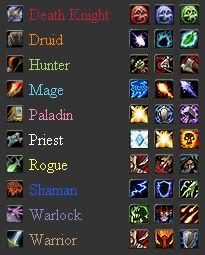
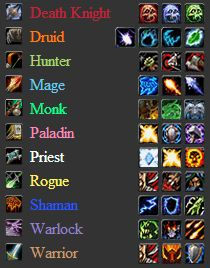
Updated for Mists

diff --git a/demo/jquery.jatt.min.js b/demo/jquery.jatt.min.js
@@ -1,23 +1,10 @@
-/*
- * Jatt - just another tooltip
+/*!
+ * Jatt - just another tooltip v2.8.6 min
+ * http://github.com/Mottie/Jatt
  * by Rob Garrison (aka Mottie)
  *
  * based on tooltip by Alen Grakalic (http://cssglobe.com/post/1695/easiest-tooltip-and-image-preview-using-jquery)
  * tooltip modification by Rob G, aka Mottie (http://wowmotty.blogspot.com/)
  *
- * v2.2  10/3/2010 Added support for old tooltip script (css contained in rel attribute)
- * v2.1  8/22/2010 Converted to a plugin, added enhancements & commented out dhtmltooltip script
- * v2.01 8/29/2009 Added Websnapr.com site screenshot option
- * v2.0  6/10/2009 Combined scripts, added support for dhtmltooltip
- * v1.0  5/8/2008  Original tooltip script by Alen Grakalic
  */
-
-function objClone(l){if(null===l||"object"!=typeof l)return l;var a=l.constructor(),d;for(d in l)if(l.hasOwnProperty(d))a[d]=l[d];return a}
-(function($){$.jatt=function(l){var a,d=$.extend({},$.jatt.defaultOptions,l);$.jatt.ttrelocate=function(i,e){var c=$(e).outerWidth(),b=$(e).outerHeight(),g={e:[a.xOffset,-b/2,c+a.xOffset,b/2],se:[a.xOffset,a.yOffset,c+a.xOffset,b+a.yOffset],s:[-c/2,a.yOffset,c/2,b+a.yOffset],sw:[-c-a.xOffset,a.yOffset,-a.xOffset,b+a.yOffset],w:[-c-a.xOffset,-b/2,-a.xOffset,b/2],nw:[-c-a.xOffset,-b-a.yOffset,-a.xOffset,-a.yOffset],n:[-c/2,-b-a.yOffset,c/2,-a.yOffset],ne:[a.xOffset,-b-a.yOffset,c+a.xOffset,-a.yOffset]}[a.direction],
-k=$(window).scrollTop(),m=$(window).scrollLeft(),f=i.pageX,j=i.pageY;if(!a.followMouse){j=$(i.target);f=j.outerWidth();var h=j.outerHeight();h={e:[f,h/2],se:[f,h],s:[f/2,h],sw:[0,h],w:[0,h/2],nw:[0,0],n:[f/2,0],ne:[f,0]};f=j.offset().left+h[a.direction][0];j=j.offset().top+h[a.direction][1]}h=f+g[0];var n=j+g[1];if(f+g[2]>m+$(window).width()-a.xOffset)h=$(window).width()-c-a.xOffset;if(j+g[3]>k+$(window).height()-a.yOffset)n=j-b-a.yOffset;if(h<m+a.xOffset)h=m+a.xOffset;if(n<k+a.yOffset)n=j+a.yOffset;
-if(f>h&&f<h+c&&j>n&&j<n+b)n+=n-b/2-a.yOffset<k+a.yOffset?b/2+a.yOffset:-b/2-a.yOffset;$(e).css({left:h+"px",top:n+"px"})};$.jatt.getMeta=function(i){a=objClone(d);var e,c=[],b=i.attr(d.metadata).match(/(\{.*\})/g)||"";if(b!==""){b=b[0].replace(/(\{|\'|\"|\})/g,"");if(b.match("direction|followMouse|content|speed|local|xOffset|yOffset|zIndex")){$.each(b.split(";"),function(g,k){e=k.split(":");if(e[0].match("direction|followMouse|content|speed|local|xOffset|yOffset|zIndex")){var m=$.trim(e[0]),f=$.trim(e[1]);
-a[m]=f=="true"||f=="false"?f=="true"?true:false:isNaN(f)?f:parseFloat(f)}else c.push(k)});b=c.join(";")}}e=i.attr("rel")||"";if(e!==""&&!/^[#|\.]|[\/]/.test(e)){e=e.split(",");b+=";width:"+e[0]+"px;";if(typeof e[1]!="undefined")b+="background:"+e[1]}return[a,b]};(function(){var i=d.live?"live":"bind";$(d.tooltip)[i](d.activate,function(e){var c=$(this),b=d.metadata.toString()=="false"?[d,""]:$.jatt.getMeta(c);a=b[0];var g=c.attr(a.content)===""?c.data("tooltip")||"":c.attr(a.content)||"",k=c.attr("rel")||
-"",m=c.attr("href")||"";c.data("tooltip",g);c.attr("title","");if(g==="")if(k!=="")g=$(k).html()||"No tooltip found";else if(m!==""){g="Loading...";var f=$("<div />");f.load(m,function(){$("#"+d.tooltipId).html(f.html())})}b='<div id="'+d.tooltipId+'" style="position:absolute;z-index:'+a.zIndex+";"+b[1]+'">'+g+"</div>";a.local?c.before(b):$("body").append(b);$.jatt.ttrelocate(e,"#"+d.tooltipId);$("#"+d.tooltipId).fadeIn(a.speed)})[i](d.deactivate,function(){$("#"+d.tooltipId).remove()})[i]("mousemove",
-function(e){a.followMouse&&$.jatt.ttrelocate(e,"#"+d.tooltipId)});$(d.preview+","+d.screenshot)[i](d.activate,function(e){var c=$(this),b=d.metadata.toString()=="false"?[d,""]:$.jatt.getMeta(c);a=b[0];var g=c.attr(a.content)===""?c.data("tooltip")||"":c.attr(a.content)||"";c.data("tooltip",g);a.content=="title"&&c.attr(a.content,"");b='<div id="'+d.previewId+'" style="position:absolute;z-index:'+a.zIndex+";"+b[1]+'"><img src="';g=g!==""?"<br/>"+g:"";var k=c.is(d.screenshot)&&this.rel=="#"?"http://images.websnapr.com/?url="+
-this.href:this.rel;b+=c.is(d.preview)?this.href+'" alt="Image preview" />':k+'" alt="URL preview: '+this.href+'" />';b+=g+"</div>";a.local?c.before(b):$("body").append(b);$("#"+d.previewId).data("options",a);$.jatt.ttrelocate(e,"#"+d.previewId);$("#"+d.previewId).fadeIn(a.speed)})[i](d.deactivate,function(){$("#"+d.previewId).remove()})[i]("mousemove",function(e){a.followMouse&&$.jatt.ttrelocate(e,"#"+d.previewId)})})()};$.jatt.defaultOptions={direction:"n",followMouse:true,content:"title",speed:300,
-local:false,xOffset:20,yOffset:20,zIndex:1E3,live:false,metadata:"class",activate:"mouseenter focusin",deactivate:"mouseleave focusout",tooltip:".tooltip",screenshot:"a.screenshot",preview:"a.preview",tooltipId:"tooltip",previewId:"preview"}})(jQuery);
+;(function(a,v,t){a.jatt=function(h){var g,q,r=[],u=a("body"),i=a(t),o=a(v),b=a.extend({},a.jatt.defaultOptions,h);a.jatt.ttrelocate=function(f,e){var j=a("#"+e),d=j.outerWidth(),m=j.outerHeight(),c=j.data("options")||b,g={e:[c.xOffset,-m/2,d+c.xOffset,m/2],se:[c.xOffset,c.yOffset,d+c.xOffset,m+c.yOffset],s:[-d/2,c.yOffset,d/2,m+c.yOffset],sw:[-d-c.xOffset,c.yOffset,-c.xOffset,m+c.yOffset],w:[-d-c.xOffset,-m/2,-c.xOffset,m/2],nw:[-d-c.xOffset,-m-c.yOffset,-c.xOffset,-c.yOffset],n:[-d/2,-m-c.yOffset, d/2,-c.yOffset],ne:[c.xOffset,-m-c.yOffset,d+c.xOffset,-c.yOffset]}[c.direction],p=o.scrollTop(),k=o.scrollLeft(),n=a(f.target),i=f.pageX||n.position().left+n.width()/2,l=f.pageY||n.position().top+n.height()/2;c.followMouse||(i=n.outerWidth(),l=n.outerHeight(),l={e:[i,l/2],se:[i,l],s:[i/2,l],sw:[0,l],w:[0,l/2],nw:[0,0],n:[i/2,0],ne:[i,0]},i=n.offset().left+l[c.direction][0],l=n.offset().top+l[c.direction][1]);var n=i+g[0],h=l+g[1];i+g[2]>k+o.width()-c.xOffset&&(n=o.width()-d-c.xOffset);l+g[3]>p+o.height()- c.yOffset&&(h=l-m-c.yOffset);n<k+c.xOffset&&(n=k+c.xOffset);h<p+c.yOffset&&(h=l+c.yOffset);i>n&&(i<n+d&&l>h&&l<h+m)&&(h+=h-m/2-c.yOffset<p+c.yOffset?m/2+c.yOffset:-m/2-c.yOffset);j.css({left:n+"px",top:h+"px"})};a.jatt.getMeta=function(f){g=a.extend({},b);var e,j=[],d=f.attr(b.metadata)||"",d=d.match(/(\{.*\})/g)?d.match(/(\{.*\})/g)[0]:f.attr(b.metadata)||"",d=d.match("width|background|color|border|direction|followMouse|content|speed|local|xOffset|yOffset|zIndex")?d:f.attr("data-jatt")||"";""!== d&&(d=d.replace(/(\{|\'|\"|\})/g,""),d.match("direction|followMouse|content|speed|local|xOffset|yOffset|zIndex")&&(a.each(d.split(";"),function(b,c){e=c.split(":");if(e[0].match("direction|followMouse|content|speed|local|xOffset|yOffset|zIndex")){var d=a.trim(e[0]),f=a.trim(e[1]);g[d]="true"==f||"false"==f?"true"==f?!0:!1:isNaN(f)?f:parseFloat(f)}else j.push(c)}),d=j.join(";")));return[g,d]};a.jatt.removeTooltips=function(){var f=a("#"+b.previewId+", #"+b.tooltipId);f.length&&(f.remove(),i.trigger("hidden.jatt", a.data(i,"jatt")));for(;0<a("#"+b.previewId+", #"+b.tooltipId).length;)a("#"+b.previewId+", #"+b.tooltipId).remove()};a.jatt.preloadContent=function(f){if(0!==f.length){var e,j,d,g,c,i=[],h=a(b.tooltip),k=f.length;for(c=0;c<k;c++)e=t.createElement("img"),e.src=f[c],r.push(e);h.each(function(c){j=a(this);"A"===this.tagName&&j.is(b.preloadContent)&&(g=a(this).attr("href")||"",""!==g&&!g.match(/^#/)&&(d=a('<div rel="'+c+'" />'),i.push(d),d.load(g,function(){h.eq(d.attr(b.extradata)).data("tooltip",d.html())})))})}}; var h=b.live?"live":"bind",s=[];a.each(["initialized.jatt","beforeReveal.jatt","revealed.jatt","hidden.jatt"],function(f,e){var g=e.split(".")[0];a.isFunction(b[g])&&i.bind(e,b[g])});a.data(i,"jatt","");a(b.tooltip)[h](b.activate,function(f){var e,j,d,h,c,o,p,k=a(this);e="false"===b.metadata.toString()?[b,""]:a.jatt.getMeta(k);this!==a.data(i,"jatt")[0]&&a.jatt.removeTooltips();i.trigger("initialized.jatt",k);g=e[0];j=""===k.attr(g.content)?k.data("tooltip")||"":k.attr(g.content)||"";h=k.attr(b.extradata)|| "";c=k.attr("href")||"";k.data("tooltip",j);k.attr("title","");e='<div id="'+b.tooltipId+'" style="position:absolute;z-index:'+g.zIndex+";"+e[1]+'"><span class="body"></span><span class="close" style="display:none;">x</span></div>';g.local?k.before(e):u.append(e);d=a("#"+b.tooltipId);""===j&&(""!==h?j=a(h).html()||b.notFound:""!==c&&"#"!==c&&(j=b.loading,o=a("<div />"),o.load(c,function(){p=o.html();r=b.cacheData?p:"";d.hide().find(".body").html(p);k.data("tooltip",r);a.jatt.ttrelocate(f,b.tooltipId); d.fadeIn(g.speed)})));d.data("options",g).find(".body").html(j);a.jatt.ttrelocate(f,b.tooltipId);d.find(".close")[k.is(b.sticky)?"show":"hide"]().click(function(){a.jatt.removeTooltips()});a.data(i,"jatt",k);i.trigger("beforeReveal.jatt",k);d.fadeIn(g.speed);i.trigger("revealed.jatt",k)})[h](b.deactivate,function(){a(this).is(b.sticky)||a.jatt.removeTooltips()})[h]("mousemove",function(f){a("#"+b.tooltipId).length&&g.followMouse&&a.jatt.ttrelocate(f,b.tooltipId)});q=function(f,e,j){i.trigger("initialized.jatt", e);var d,h="false"==b.metadata.toString()?[b,""]:a.jatt.getMeta(e);g=h[0];d=""===e.attr(g.content)?e.data("tooltip")||"":e.attr(g.content)||"";e.data("tooltip",d);"title"===g.content&&e.attr(g.content,"");j='<div id="'+b.previewId+'" style="position:absolute;z-index:'+g.zIndex+";"+h[1]+'"><span class="body"><img src="'+j+(""!==d?"<br/>"+d:"")+'</span><span class="close" style="display:none;">x</span></div>';g.local?e.before(j):u.append(j);j=a("#"+b.previewId);a.data(i,"jatt",e);i.trigger("beforeReveal.jatt", e);j.hide().data("options",g).fadeIn(g.speed);j.find(".close")[e.is(b.sticky)?"show":"hide"]().click(function(){a.jatt.removeTooltips()});a.jatt.ttrelocate(f,b.previewId);i.trigger("revealed.jatt",e)};a(b.preview)[h](b.activate,function(f){var e=a(this);a.jatt.removeTooltips();q(f,e,e.attr("href")+'" alt="'+b.imagePreview+'" />')}).each(function(){s.push(a(this).attr("href"))});a(b.screenshot)[h](b.activate,function(f){var e=a(this),g=("#"===e.attr(b.extradata)?b.websitePreview+e.attr("href"):e.attr(b.extradata))+ '" alt="'+b.siteScreenshot+e.attr("href")+'" />';a.jatt.removeTooltips();q(f,e,g)}).each(function(){var f=a(this);s.push("#"===f.attr(b.extradata)?b.websitePreview+f.attr("href"):f.attr(b.extradata))});a(b.preview+","+b.screenshot)[h](b.deactivate,function(){a(this).is(b.sticky)||a.jatt.removeTooltips()})[h]("mousemove",function(f){a("#"+b.previewId).length&&g.followMouse&&a.jatt.ttrelocate(f,b.previewId)});a.jatt.preloadContent(s)};a.jatt.defaultOptions={direction:"n",followMouse:!0,content:"title", speed:300,local:!1,xOffset:20,yOffset:20,zIndex:1E3,live:!1,metadata:"class",extradata:"rel",activate:"mouseenter focusin",deactivate:"mouseleave focusout",cacheData:!0,websitePreview:"http://api1.thumbalizr.com/?width=250&url=",loading:"Loading...",notFound:"No tooltip found",imagePreview:"Image preview",siteScreenshot:"URL preview: ",tooltip:".tooltip",screenshot:"a.screenshot",preview:"a.preview",preloadContent:".preload",sticky:".sticky",tooltipId:"tooltip",previewId:"preview"}})(jQuery,this, document);

diff --git a/js/wowtalents.min.js b/js/wowtalents.min.js
@@ -1,7 +1,6 @@
-/* World of Warcraft Recruit By Talent Widget Version 1.3.2
+/*! World of Warcraft Recruit By Talent Widget Version 1.3.3
  * by Rob G (Mottie) 2011
  * http://mottie.guildportal.com
  * Dual licensed under the MIT or GPL Version 2.
  */
-
-(function(c){c.wowTalents=function(j,k){var d=this,a;d.$el=c(j).addClass("recruitTalent");d.$el.data("wowTalents",d);d.init=function(){d.options=a=c.extend({},c.wowTalents.defaultOptions,k);var i,e,g,h,b,f;h=a.defaultNeed.toLowerCase();a.defaultNeed="None";if(/^l/.test(h))a.defaultNeed="Low";if(/^m/.test(h))a.defaultNeed="Medium";if(/^h/.test(h))a.defaultNeed="High";b=c('<div><p class="usebg"/><p class="none"/><p class="low"/><p class="medium"/><p class="high"/></div>').appendTo(c("body"));a.bg=b.find(".usebg").css("color"); a.cn=b.find(".none").css("color");a.cl=b.find(".low").css("color");a.cm=b.find(".medium").css("color");a.ch=b.find(".high").css("color");a.cd=b.find("."+a.defaultNeed.toLowerCase()).css("color");b.remove();b="<div>";f=c.wowTalents.talents.root;for(e=0;e<f.length;e++){h=a[f[e].name.toLowerCase().replace(/\s+/g,"")].split(",");b+='<div class="wowclass"><span class="classIcon '+f[e].icon+'"><span';b+=a.useClassColors?' style="color:'+f[e].color+'">':">";b+=f[e].name+'</span></span><span class="talentIcons">'; for(g=0;3>g;g++)i=d.getStyle(h[g]||""),b+='<span class="talentIcon '+a.tooltipClass+" "+f[e].tree[g][1]+" "+i[0].toLowerCase()+("class"===a.tooltipMetadata?" ":'" '+a.tooltipMetadata+'="')+"{width:"+a.tooltipWidth+"px;color:"+(a.colorBackground?a.bg+";background:":"")+i[1]+';}" title="'+f[e].tree[g][0]+": "+i[0]+'"></span> ';b+="</span></div>"}d.$el.html(b+"</div>")};d.getStyle=function(c){c=c.toLowerCase();return/^n/.test(c)?["None",a.cn]:/^l/.test(c)?["Low",a.cl]:/^m/.test(c)?["Medium",a.cm]:/^h/.test(c)? ["High",a.ch]:[a.defaultNeed,a.cd]};d.init()};c.wowTalents.defaultOptions={defaultNeed:"Low",colorBackground:!0,useClassColors:!0,tooltipClass:"tooltip",tooltipWidth:150,tooltipMetadata:"class",deathknight:"",druid:"",hunter:"",mage:"",paladin:"",priest:"",rogue:"",shaman:"",warlock:"",warrior:""};c.wowTalents.talents={root:[{name:"Death Knight",icon:"icon_class_deathknight",color:"#c41f3b",tree:[["Blood","icon_deathknight_blood"],["Frost","icon_deathknight_frost"],["Unholy","icon_deathknight_unholy"]]}, {name:"Druid",icon:"icon_class_druid",color:"#ff7d0a",tree:[["Balance","icon_druid_balance"],["Feral","icon_druid_feral"],["Restoration","icon_druid_restoration"]]},{name:"Hunter",icon:"icon_class_hunter",color:"#abd473",tree:[["Beast Mastery","icon_hunter_beast_mastery"],["Marksmanship","icon_hunter_marksmanship"],["Survival","icon_hunter_survival"]]},{name:"Mage",icon:"icon_class_mage",color:"#69ccf0",tree:[["Arcane","icon_mage_arcane"],["Fire","icon_mage_fire"],["Frost","icon_mage_frost"]]},{name:"Paladin", icon:"icon_class_paladin",color:"#f58cba",tree:[["Holy","icon_paladin_holy"],["Protection","icon_paladin_protection"],["Retribution","icon_paladin_retribution"]]},{name:"Priest",icon:"icon_class_priest",color:"#ffffff",tree:[["Discipline","icon_priest_discipline"],["Holy","icon_priest_holy"],["Shadow","icon_priest_shadow"]]},{name:"Rogue",icon:"icon_class_rogue",color:"#fff569",tree:[["Assassination","icon_rogue_assassination"],["Combat","icon_rogue_combat"],["Subtlety","icon_rogue_subtlety"]]},{name:"Shaman", icon:"icon_class_shaman",color:"#2459ff",tree:[["Elemental","icon_shaman_elemental"],["Enhancement","icon_shaman_enhancement"],["Restoration","icon_shaman_restoration"]]},{name:"Warlock",icon:"icon_class_warlock",color:"#9482c9",tree:[["Affliction","icon_warlock_affliction"],["Demonology","icon_warlock_demonology"],["Destruction","icon_warlock_destruction"]]},{name:"Warrior",icon:"icon_class_warrior",color:"#c79c6e",tree:[["Arms","icon_warrior_arms"],["Fury","icon_warrior_fury"],["Protection","icon_warrior_protection"]]}]}; c.fn.wowTalents=function(j){return this.each(function(){new c.wowTalents(this,j)})}})(jQuery);
+(function(c){c.wowTalents=function(j,k){var e=this,a;e.$el=c(j).addClass("recruitTalent");e.$el.data("wowTalents",e);e.init=function(){e.options=a=c.extend({},c.wowTalents.defaultOptions,k);var i,d,g,h,b,f;h=a.defaultNeed.toLowerCase();a.defaultNeed="None";/^l/.test(h)&&(a.defaultNeed="Low");/^m/.test(h)&&(a.defaultNeed="Medium");/^h/.test(h)&&(a.defaultNeed="High");b=c('<div><p class="usebg"/><p class="none"/><p class="low"/><p class="medium"/><p class="high"/></div>').appendTo(c("body"));a.bg=b.find(".usebg").css("color"); a.cn=b.find(".none").css("color");a.cl=b.find(".low").css("color");a.cm=b.find(".medium").css("color");a.ch=b.find(".high").css("color");a.cd=b.find("."+a.defaultNeed.toLowerCase()).css("color");b.remove();b="<div>";f=c.wowTalents.talents.root;for(d=0;d<f.length;d++){h=a[f[d].name.toLowerCase().replace(/\s+/g,"")].split(",");b+='<div class="wowclass"><span class="classIcon '+f[d].icon+'"><span';b+=a.useClassColors?' style="color:'+f[d].color+'">':">";b+=f[d].name+'</span></span><span class="talentIcons">'; for(g=f[d].tree.length-1;0<=g;g--)i=e.getStyle(h[g]||""),b+='<span class="talentIcon '+a.tooltipClass+" "+f[d].tree[g][1]+" "+i[0].toLowerCase()+("class"===a.tooltipMetadata?" ":'" '+a.tooltipMetadata+'="')+"{width:"+a.tooltipWidth+"px;color:"+(a.colorBackground?a.bg+";background:":"")+i[1]+';}" title="'+f[d].tree[g][0]+": "+i[0]+'"></span> ';b+="</span></div>"}e.$el.html(b+"</div>")};e.getStyle=function(c){c=c.toLowerCase();return/^n/.test(c)?["None",a.cn]:/^l/.test(c)?["Low",a.cl]:/^m/.test(c)? ["Medium",a.cm]:/^h/.test(c)?["High",a.ch]:[a.defaultNeed,a.cd]};e.init()};c.wowTalents.defaultOptions={defaultNeed:"Low",colorBackground:!0,useClassColors:!0,tooltipClass:"tooltip",tooltipWidth:150,tooltipMetadata:"class",deathknight:"",druid:"",hunter:"",mage:"",monk:"",paladin:"",priest:"",rogue:"",shaman:"",warlock:"",warrior:""};c.wowTalents.talents={root:[{name:"Death Knight",icon:"icon_class_deathknight",color:"#c41f3b",tree:[["Blood","icon_deathknight_blood"],["Frost","icon_deathknight_frost"], ["Unholy","icon_deathknight_unholy"]]},{name:"Druid",icon:"icon_class_druid",color:"#ff7d0a",tree:[["Balance","icon_druid_balance"],["Guardian","icon_druid_guardian"],["Feral","icon_druid_feral"],["Restoration","icon_druid_restoration"]]},{name:"Hunter",icon:"icon_class_hunter",color:"#abd473",tree:[["Beast Mastery","icon_hunter_beast_mastery"],["Marksmanship","icon_hunter_marksmanship"],["Survival","icon_hunter_survival"]]},{name:"Mage",icon:"icon_class_mage",color:"#69ccf0",tree:[["Arcane","icon_mage_arcane"], ["Fire","icon_mage_fire"],["Frost","icon_mage_frost"]]},{name:"Monk",icon:"icon_class_monk",color:"#00ff96",tree:[["Brewmaster","icon_monk_brewmaster"],["Mistweaver","icon_monk_mistweaver"],["Windwalker","icon_monk_windwalker"]]},{name:"Paladin",icon:"icon_class_paladin",color:"#f58cba",tree:[["Holy","icon_paladin_holy"],["Protection","icon_paladin_protection"],["Retribution","icon_paladin_retribution"]]},{name:"Priest",icon:"icon_class_priest",color:"#ffffff",tree:[["Discipline","icon_priest_discipline"], ["Holy","icon_priest_holy"],["Shadow","icon_priest_shadow"]]},{name:"Rogue",icon:"icon_class_rogue",color:"#fff569",tree:[["Assassination","icon_rogue_assassination"],["Combat","icon_rogue_combat"],["Subtlety","icon_rogue_subtlety"]]},{name:"Shaman",icon:"icon_class_shaman",color:"#2459ff",tree:[["Elemental","icon_shaman_elemental"],["Enhancement","icon_shaman_enhancement"],["Restoration","icon_shaman_restoration"]]},{name:"Warlock",icon:"icon_class_warlock",color:"#9482c9",tree:[["Affliction","icon_warlock_affliction"], ["Demonology","icon_warlock_demonology"],["Destruction","icon_warlock_destruction"]]},{name:"Warrior",icon:"icon_class_warrior",color:"#c79c6e",tree:[["Arms","icon_warrior_arms"],["Fury","icon_warrior_fury"],["Protection","icon_warrior_protection"]]}]};c.fn.wowTalents=function(j){return this.each(function(){new c.wowTalents(this,j)})}})(jQuery);

diff --git a/css/wowtalents.css b/css/wowtalents.css
@@ -32,7 +32,6 @@
 
 /* wraps all 3 talent tree icons */
 .talentIcons {
- width: 40%;
  float: right;
 }
 
@@ -40,9 +39,10 @@
 .talentIcon {
  background: url(../images/icons-wowtalents.gif) no-repeat;
  display: block;
- float: left;
+ float: right;
  width: 21px;
  height: 21px;
+ margin-left: 2px;
 }
 
 /* talent and class sprites */
@@ -50,36 +50,41 @@
 .icon_deathknight_frost { background-position: 0 -50px; }
 .icon_deathknight_unholy { background-position: 0 -100px; }
 .icon_druid_balance { background-position: 0 -150px; }
-.icon_druid_feral { background-position: 0 -200px; }
-.icon_druid_restoration { background-position: 0 -250px; }
-.icon_hunter_beast_mastery { background-position: 0 -300px; }
-.icon_hunter_marksmanship { background-position: 0 -350px; }
-.icon_hunter_survival { background-position: 0 -400px; }
-.icon_mage_arcane { background-position: 0 -450px; }
-.icon_mage_fire { background-position: 0 -500px; }
-.icon_mage_frost { background-position: 0 -550px; }
-.icon_paladin_holy { background-position: 0 -600px; }
-.icon_paladin_protection { background-position: 0 -650px; }
-.icon_paladin_retribution { background-position: 0 -700px; }
-.icon_priest_discipline { background-position: 0 -750px; }
-.icon_priest_holy { background-position: 0 -800px; }
-.icon_priest_shadow { background-position: 0 -850px; }
-.icon_rogue_assassination { background-position: 0 -900px; }
-.icon_rogue_combat { background-position: 0 -950px; }
-.icon_rogue_subtlety { background-position: 0 -1000px; }
-.icon_shaman_elemental { background-position: 0 -1050px; }
-.icon_shaman_enhancement { background-position: 0 -1100px; }
-.icon_shaman_restoration { background-position: 0 -1150px; }
-.icon_warlock_affliction { background-position: 0 -1200px; }
-.icon_warlock_demonology { background-position: 0 -1250px; }
-.icon_warlock_destruction { background-position: 0 -1300px; }
-.icon_warrior_arms { background-position: 0 -1350px; }
-.icon_warrior_fury { background-position: 0 -1400px; }
-.icon_warrior_protection { background-position: 0 -1450px; }
+.icon_druid_guardian { background-position: 0 -200px; }
+.icon_druid_feral { background-position: 0 -250px; }
+.icon_druid_restoration { background-position: 0 -300px; }
+.icon_hunter_beast_mastery { background-position: 0 -350px; }
+.icon_hunter_marksmanship { background-position: 0 -400px; }
+.icon_hunter_survival { background-position: 0 -450px; }
+.icon_mage_arcane { background-position: 0 -500px; }
+.icon_mage_fire { background-position: 0 -550px; }
+.icon_mage_frost { background-position: 0 -600px; }
+.icon_monk_brewmaster { background-position: 0 -1550px; }
+.icon_monk_mistweaver { background-position: 0 -1600px; }
+.icon_monk_windwalker { background-position: 0 -1650px; }
+.icon_paladin_holy { background-position: 0 -650px; }
+.icon_paladin_protection { background-position: 0 -700px; }
+.icon_paladin_retribution { background-position: 0 -750px; }
+.icon_priest_discipline { background-position: 0 -800px; }
+.icon_priest_holy { background-position: 0 -850px; }
+.icon_priest_shadow { background-position: 0 -900px; }
+.icon_rogue_assassination { background-position: 0 -950px; }
+.icon_rogue_combat { background-position: 0 -1000px; }
+.icon_rogue_subtlety { background-position: 0 -1050px; }
+.icon_shaman_elemental { background-position: 0 -1100px; }
+.icon_shaman_enhancement { background-position: 0 -1150px; }
+.icon_shaman_restoration { background-position: 0 -1200px; }
+.icon_warlock_affliction { background-position: 0 -1250px; }
+.icon_warlock_demonology { background-position: 0 -1300px; }
+.icon_warlock_destruction { background-position: 0 -1350px; }
+.icon_warrior_arms { background-position: 0 -1400px; }
+.icon_warrior_fury { background-position: 0 -1450px; }
+.icon_warrior_protection { background-position: 0 -1500px; }
 
 .icon_class_deathknight { background-position: 0 0; }
 .icon_class_druid { background-position: 0 -50px; }
 .icon_class_hunter { background-position: 0 -100px; }
+.icon_class_monk { background-position: 0 -500px; }
 .icon_class_mage { background-position: 0 -150px; }
 .icon_class_paladin { background-position: 0 -200px; }
 .icon_class_priest { background-position: 0 -250px; }

diff --git a/js/wowtalents.js b/js/wowtalents.js
@@ -1,10 +1,11 @@
-/* World of Warcraft Recruit By Talent Widget Version 1.3.2
- * by Rob G (Mottie) 2011
+/*! World of Warcraft Recruit By Talent Widget Version 1.3.3
+ * by Rob G (Mottie) 2012
  * http://mottie.guildportal.com
  * Dual licensed under the MIT or GPL Version 2.
  */
-
-(function($){
+/*jshint jquery:true */
+;(function($){
+	"use strict";
 	$.wowTalents = function(el, options){
 		// Avoid scope issues, use 'base' instead of 'this'
 		var base = this, o;
@@ -50,8 +51,8 @@
 				t += (o.useClassColors) ? ' style="color:' + tal[i].color + '">' : '>';
 				t += tal[i].name + '</span></span><span class="talentIcons">';
 
-				// build tree x3 for each class
-				for ( j=0; j<3; j++ ) {
+				// build tree x3 for each class; reverse direction because we're floating the icons to the right.
+				for ( j = tal[i].tree.length - 1; j >= 0; j-- ) {
 					c = base.getStyle( n[j] || '' ); // get class c[0] & hex values c[1]
 					// tooltip width, text color and background color added as metadata into the selected attribute
 					t += '<span class="talentIcon ' + o.tooltipClass + ' ' + tal[i].tree[j][1] + ' ' + c[0].toLowerCase() +
@@ -89,6 +90,7 @@
 		druid           : "",
 		hunter          : "",
 		mage            : "",
+		monk            : "",
 		paladin         : "",
 		priest          : "",
 		rogue           : "",
@@ -109,6 +111,7 @@
 		"icon"  : "icon_class_druid",
 		"color" : "#ff7d0a",
 		"tree"  : [[ "Balance", "icon_druid_balance" ],
+		[ "Guardian", "icon_druid_guardian" ],
 		[ "Feral", "icon_druid_feral" ],
 		[ "Restoration", "icon_druid_restoration" ]]
 	},{
@@ -125,6 +128,13 @@
 		"tree"  : [[ "Arcane", "icon_mage_arcane" ],
 		[ "Fire", "icon_mage_fire" ],
 		[ "Frost", "icon_mage_frost" ]]
+	},{
+		"name"  : "Monk",
+		"icon"  : "icon_class_monk",
+		"color" : "#00ff96",
+		"tree"  : [[ "Brewmaster", "icon_monk_brewmaster" ],
+		[ "Mistweaver", "icon_monk_mistweaver" ],
+		[ "Windwalker", "icon_monk_windwalker" ]]
 	},{
 		"name"  : "Paladin",
 		"icon"  : "icon_class_paladin",

diff --git a/index.html b/index.html
@@ -4,7 +4,7 @@
  <title>WoW Talent Needs jQuery Plugin</title>
 
  <!-- Required jQuery -->
- <script src="http://ajax.googleapis.com/ajax/libs/jquery/1.7/jquery.min.js"></script>
+ <script src="http://ajax.googleapis.com/ajax/libs/jquery/1.8/jquery.min.js"></script>
 
  <!-- Demo files (optional) -->
  <link rel="stylesheet" href="demo/demo.css">
@@ -23,7 +23,7 @@
    colorBackground: false,
    useClassColors: true,
    defaultNeed: 'n',
-   druid : ',-,h', // empty parameters or characters that don't match anything will be set to the default need
+   druid : ',-,x,h', // empty parameters or characters that don't match anything will be set to the default need
    mage  : 'l,m,h',
    rogue : 'h,l,m',
    warrior : 'l'
@@ -34,7 +34,7 @@
    useClassColors: true,
    defaultNeed: 'l',
    deathknight: ',h,',
-   druid : 'm,n,h',
+   druid : 'm,l,n,h', // balance, guardian, feral, restoration
    rogue : 'm,l,m',
    warrior : ',n,m'
   });
